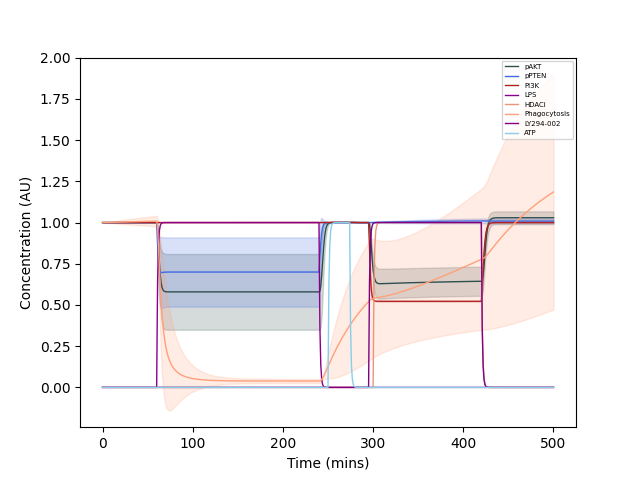
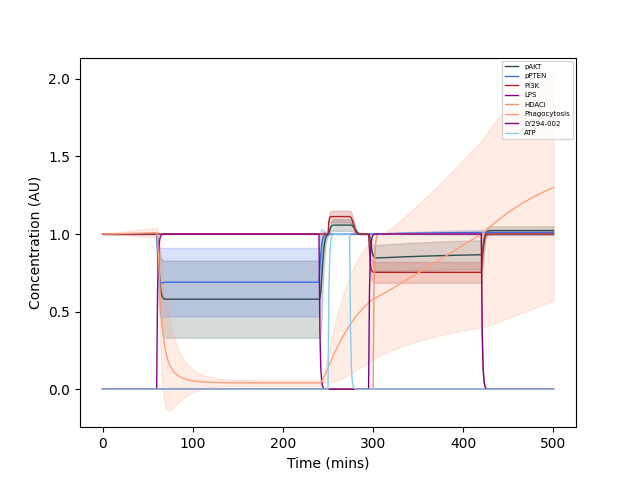
updates

diff --git a/model_fitting_and_evaluation.py b/model_fitting_and_evaluation.py
@@ -28,6 +28,8 @@ parser.add_argument("-t", "--toplot", help="list of substrates to plot", nargs="
 if __name__ == "__main__":
     args = parser.parse_args()
    
+    main_figure, axs = plt.subplots(1, 4, figsize=(24, 9), sharex=True, sharey=True)
+
     # parse and create all necessary objects for creating a network
     rates = parse_rates(args.rates)
     substrates = parse_substrates(args.substrates, rates)
@@ -50,7 +52,7 @@ if __name__ == "__main__":
     # check unfitted rates error
     print("Randomly Generated Error")
     network.set_parameters(np.random.rand(len([p for p in network.parameters.values() if p.fixed==False])), [p.identifier for p in network.parameters.values() if p.fixed==False])
-    original, original_fig = network.graph_distributions(time, args.number, substrates_to_plot=["PI3K", "pAKT", "pPTEN", "Phagocytosis", "LPS", "HDACi", "GSK3B", "LY294-002"], normalize=True, path=os.path.join(args.output, "figure_0.png"), output_figure=True)
+    original, original_fig = network.graph_distributions(time, args.number, substrates_to_plot=["PI3K", "pAKT", "pPTEN", "Phagocytosis", "LPS", "HDACi", "GSK3B", "LY294-002"], normalize=True, path=os.path.join(args.output, "figure_0.png"), output_figure=True, axis=None)
     print(error(original, fit_dictionary, list(network.substrates.keys())))
     print("BV2 --> Primary")
     print(error(original, {"Phagocytosis": {420: 0.6}}, list(network.substrates.keys())))
@@ -78,14 +80,14 @@ if __name__ == "__main__":
     
     # check post-training training error
     print("LPS, HDACi, LY294-002 Error")
-    mean_y, f = network.graph_distributions(time, args.number, substrates_to_plot=["PI3K", "pAKT", "pPTEN", "Phagocytosis", "LPS", "HDACi", "GSK3B", "LY294-002"], normalize=True, path=os.path.join(args.output, "figure_3.png"), output_figure=True)
+    mean_y = network.graph_distributions(time, args.number, substrates_to_plot=["PI3K", "pAKT", "pPTEN", "Phagocytosis", "LPS", "HDACi", "GSK3B", "LY294-002"], normalize=True, path=os.path.join(args.output, "figure_3.png"), output_figure=True, axis=axs[0])
     print(error(mean_y, fit_dictionary, list(network.substrates.keys())))
     print("BV2 --> Primary")
     print(error(mean_y, {"Phagocytosis": {420: 0.6}}, list(network.substrates.keys())))
-    plt.figure(f)
-    plt.plot(420, 0.6, "ko")
-    f.savefig(os.path.join(args.output, "figure_3.png"))
-    plt.close(f)
+    # plt.figure(f)
+    # plt.plot(420, 0.6, "ko")
+    # f.savefig(os.path.join(args.output, "figure_3.png"))
+    # plt.close(f)
     print()
 
     # check post-training validation error
@@ -97,14 +99,15 @@ if __name__ == "__main__":
         "PIP3": {"410": 0.8, "420": 0.8,},
         "GSK3B": {"410": 1.1, "420": 1.1,}
         }
-    mean_lps_hdaci_y, lh_fig = network.graph_distributions(time, args.number, substrates_to_plot=["PI3K", "pAKT", "pPTEN", "Phagocytosis", "LPS", "HDACi", "GSK3B", "LY294-002"], normalize=True, path=os.path.join(args.output, "figure_2.png"), output_figure=True)
+    mean_lps_hdaci_y = network.graph_distributions(time, args.number, substrates_to_plot=["PI3K", "pAKT", "pPTEN", "Phagocytosis", "LPS", "HDACi", "GSK3B", "LY294-002"], normalize=True, path=os.path.join(args.output, "figure_2.png"), output_figure=True, axis=axs[1])
     print(error(mean_lps_hdaci_y, lps_hdaci, list(network.substrates.keys())))
     print("BV2 --> Primary")
     print(error(mean_lps_hdaci_y, {"Phagocytosis": {420: 2.7}}, list(network.substrates.keys())))
-    plt.figure(lh_fig)
-    plt.plot(420, 2.7, "ko")
-    lh_fig.savefig(os.path.join(args.output, "figure_2.png"))
-    plt.close(lh_fig)
+    # plt.figure(lh_fig)
+    # plt.plot(420, 2.7, "ko")
+    # axs[1].set_figure(lh_fig)
+    # lh_fig.savefig(os.path.join(args.output, "figure_2.png"))
+    # plt.close(lh_fig)
     print()
 
     print("LPS Error")
@@ -116,12 +119,27 @@ if __name__ == "__main__":
         "GSK3B": {"410": 0.7, "420": 0.7,},
         "Phagocytosis": {"360": 0.80413556, "420": 1.04238109}
         }
-    mean_lps_y, l_f = network.graph_distributions(time, args.number, substrates_to_plot=["PI3K", "pAKT", "pPTEN", "Phagocytosis", "LPS", "HDACi", "GSK3B", "LY294-002"], normalize=True, path=os.path.join(args.output, "figure_1.png"), output_figure = True)
+    mean_lps_y = network.graph_distributions(time, args.number, substrates_to_plot=["PI3K", "pAKT", "pPTEN", "Phagocytosis", "LPS", "HDACi", "GSK3B", "LY294-002", "ATP"], normalize=True, path=os.path.join(args.output, "figure_1.png"), output_figure = True, axis=axs[3])
     print(error(mean_lps_y, lps, list(network.substrates.keys())))
     print("BV2 --> Primary")
     print(error(mean_lps_y, {"Phagocytosis": {240: 0.5}}, list(network.substrates.keys())))
-    plt.figure(l_f)
-    plt.plot(420, 0.5, "ko")
-    l_f.savefig(os.path.join(args.output, "figure_1.png"))
-    plt.close(l_f)
+    # plt.figure(l_f)
+    # plt.plot(420, 0.5, "ko")
+    # axs[2].set_figure(l_f)
+    # l_f.savefig(os.path.join(args.output, "figure_1.png"))
+    # plt.close(l_f)
     print()
+
+    network.substrates["ATP"].time_ranges = [[300, 420]]
+    network.substrates["ATP"].max_value = 2.0
+    mean_atp_y = network.graph_distributions(time, args.number, substrates_to_plot=["PI3K", "pAKT", "pPTEN", "Phagocytosis", "LPS", "HDACi", "GSK3B", "LY294-002", "ATP"], normalize=True, path=os.path.join(args.output, "figure_11.png"), output_figure = True, axis=axs[2])
+
+    axs[0].set_title("LPS,HDACi,LY294-002")
+    axs[1].set_title("LPS,HDACi")
+    axs[3].set_title("LPS")
+    axs[2].set_title("LPS,ATP")
+    axs[1].set_xlabel("Time")
+    axs[2].set_xlabel("(mins)")
+    axs[0].set_ylabel("Concentration (AU)")
+    axs[3].legend(loc="upper right", fontsize=8)
+    main_figure.savefig(os.path.join(args.output, "birdseye.png"))

diff --git a/src/network.py b/src/network.py
@@ -253,7 +253,7 @@ class Network:
         else:
             return y
 
-    def graph_distributions(self, time, samples, normalize=False, substrates_to_plot=[], path="./figure_with_area.png", output_figure=False, initials=None, verbose=True):
+    def graph_distributions(self, time, samples, normalize=False, substrates_to_plot=[], path="./figure_with_area.png", output_figure=False, initials=None, verbose=True, axis=None):
         if initials == None:
             y0s = []
             for _ in tqdm(range(samples),desc="Generating Random Initial",total=samples, disable=~verbose):
@@ -273,20 +273,26 @@ class Network:
         min_y = np.mean(ys, axis=0) - np.std(ys, axis=0)*2
         max_y = np.mean(ys, axis=0) + np.std(ys, axis=0)*2
         mean_y = np.mean(ys, axis=0)
-        temp_fig = plt.figure()
-        if path != None:
-            for i, s in tqdm(enumerate(self.substrates.values()), desc="Plotting Each Substrates", total=len(self.substrates), disable=~verbose):
-                if s.identifier in substrates_to_plot:
-                    if s.type != "stimulus":
-                        plt.fill_between(time, min_y[:,i], max_y[:,i], color=self.colors[i], alpha=0.2)
-                    plt.plot(time, mean_y[:,i], color=self.colors[i],label=s.__getattribute__("identifier"),linewidth=1.0)
-            plt.xlabel("Time (mins)")
-            plt.ylabel("Concentration (AU)")
-            plt.legend(loc="upper right", fontsize=5)
-            temp_fig.savefig(path)
-            print(f"Figure saved: {path}")
-        plt.close(temp_fig)
-        if output_figure:
+        if path != None or axis != None:
+            if axis == None:
+                temp_fig = plt.figure()
+                for i, s in tqdm(enumerate(self.substrates.values()), desc="Plotting Each Substrates", total=len(self.substrates), disable=~verbose):
+                    if s.identifier in substrates_to_plot:
+                        if s.type != "stimulus":
+                            plt.fill_between(time, min_y[:,i], max_y[:,i], color=self.colors[i], alpha=0.2)
+                        plt.plot(time, mean_y[:,i], color=self.colors[i],label=s.__getattribute__("identifier"),linewidth=1.0)
+                plt.xlabel("Time (mins)")
+                plt.ylabel("Concentration (AU)")
+                plt.legend(loc="upper right", fontsize=5)
+                temp_fig.savefig(path)
+                plt.close(temp_fig)
+            else:
+                for i, s in tqdm(enumerate(self.substrates.values()), desc="Plotting Each Substrates", total=len(self.substrates), disable=~verbose):
+                    if s.identifier in substrates_to_plot:
+                        if s.type != "stimulus":
+                            axis.fill_between(time, min_y[:,i], max_y[:,i], color=self.colors[i], alpha=0.2)
+                        axis.plot(time, mean_y[:,i], color=self.colors[i],label=s.__getattribute__("identifier"),linewidth=1.0)
+        if output_figure and axis==None:
             return mean_y, temp_fig
         else:
             return mean_y

diff --git a/sensitivity_analysis.py b/sensitivity_analysis.py
@@ -1,0 +1,10 @@
+import pandas as pd
+import argparse
+
+pairs = {"pAKT": "AKT", "PI3K": "PI3Ks", "PTEN": "pPTEN", "GSK3B": "pGSK3B", "PTEN": "pPTEN", "pAKT": "AKT":, "PI3K": "PI3Ks", "PTEN": "pPTEN", "GSK3B": "pGSK3B", "PTEN": "pPTEN", "pAKT": "AKT", "PI3K": "PI3Ks", "PTEN": "pPTEN", "GSK3B": "pGSK3B", "PTEN": "pPTEN"}
+path = "./output/data.csv"
+df = pd.read_csv(path, index_col=[0,1])
+new_cols = []
+
+for col in df.columns:
+    new_cols.append("")
